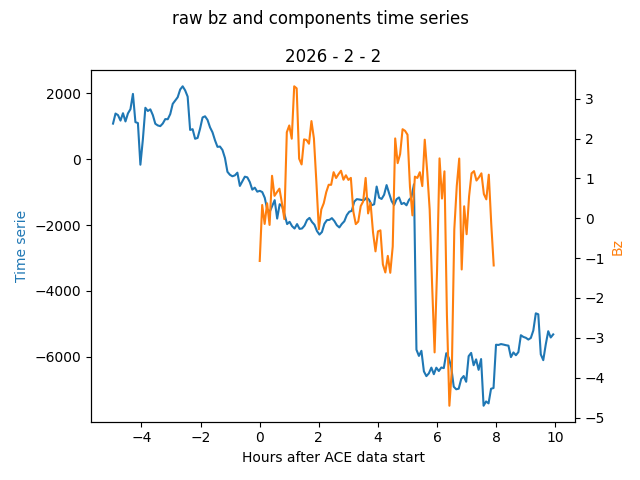
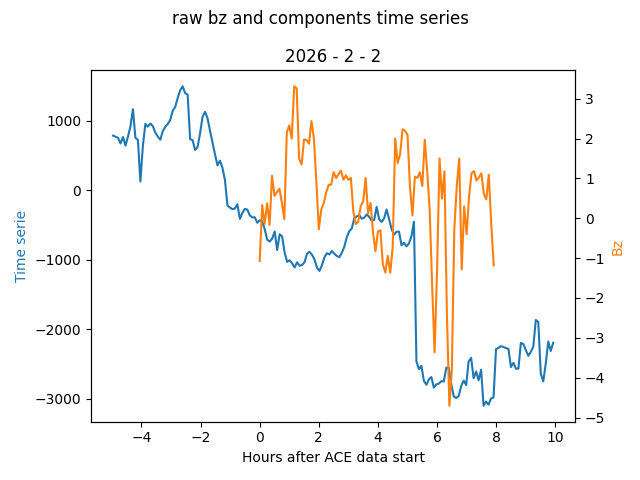
..

diff --git a/__main__.py b/__main__.py
@@ -437,13 +437,13 @@ def main()->None:
     if plot_time_series:
         print(f"Plotting time series...")
         fig_md, axs_md=subplots(number_of_components//plot_size, plot_size, figsize=(10, 10))
-        time_series_plot(fig_md, axs_md, time[-n_days:],
-                         time_coefficients_md[:, -n_days:], title="Coefficients, Northern Midday Components")
+        time_series_plot(fig_md, axs_md, time[:],
+                         time_coefficients_md[:, :], title="Coefficients, Northern Midday Components")
         fig_md.savefig("figures/Coefficients, Northern Midday Components.png")
 
         fig_int, axs_int=subplots(number_of_components//plot_size, plot_size, figsize=(10, 10))
-        time_series_plot(fig_int, axs_int, time[-n_days:], 
-                         time_coefficients_int[:, -n_days:], title="Coefficients, Nothern Geographic Components")
+        time_series_plot(fig_int, axs_int, time[:], 
+                         time_coefficients_int[:, :], title="Coefficients, Nothern Geographic Components")
         fig_int.savefig("figures/Coefficients, Northern Geographic Components.png")
 
     if plot_both: